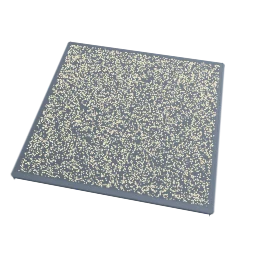
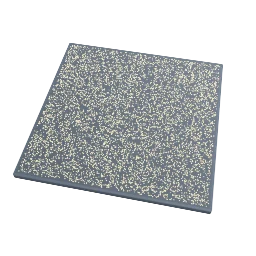
Live r8: amber beads in Sound in a box (they read on the light stage), and thumbnails
Claude-Session: https://claude.ai/code/session_01V3mijwrtZccrbj1ARTLDah

Changed region(s): [[0.0312, 0.1562, 0.9062, 0.8438]]

diff --git a/src/packs/chladni-3d.js b/src/packs/chladni-3d.js
@@ -316,7 +316,11 @@ export class Beads {
 
 const HALF = 0.8; // the cell's half-width in recipe units
 const LIFT = HALF + 0.04; // the beads' offsets reach this far
-const RING_SECS = 7; // a tap rings the transducer this long
+const RING_SECS = 7;
+// Dyed beads (labs often use colored or fluorescent ones), amber so they
+// read on the light stage and the dark one alike.
+const BEAD_A = "#c8701f";
+const BEAD_B = "#eba443"; // a tap rings the transducer this long
 const STIR_SECS = 1.0; // and first swirls a settled cell this long
 
 const CELL = { beads: null, cols: 1, rows: 1, home: null, tone: null, img: null, version: 0, last: null, taps: 0, ringUntil: 0, stirUntil: 0, amp: 0, sorted: -1, unsorted: false, p: 0, frames: 0 }; // prettier-ignore
@@ -345,7 +349,7 @@ const cellScreen = {
       CELL.img = g.createImageData(cols * 2, rows);
       const px = CELL.img.data;
       for (let i = 0; i < beads.n; i++) {
-        const c = mix("#f4ead8", "#ffffff", tone[i]).map((v) => Math.round(v * 255));
+        const c = mix(BEAD_A, BEAD_B, tone[i]).map((v) => Math.round(v * 255));
         const o = (Math.floor(i / cols) * cols * 2 + (i % cols)) * 4;
         px[o] = c[0];
         px[o + 1] = c[1];
@@ -506,7 +510,7 @@ export const CHLADNI_CELL = {
     for (let i = 0; i < n; i++) {
       for (let a = 0; a < 3; a++) home[i * 3 + a] = (k.rand() - 0.5) * 0.04;
       tone[i] = k.rand();
-      items.push({ p: [home[i * 3], home[i * 3 + 1], home[i * 3 + 2]], color: mix("#f4ead8", "#ffffff", tone[i]), size: 0.42 + 0.22 * tone[i], opacity: 1, kind: "relief", params: [((i % cols) + 0.5) / cols, (Math.floor(i / cols) + 0.5) / rows, 3, LIFT], pattern: false }); // prettier-ignore
+      items.push({ p: [home[i * 3], home[i * 3 + 1], home[i * 3 + 2]], color: mix(BEAD_A, BEAD_B, tone[i]), size: 0.42 + 0.22 * tone[i], opacity: 1, kind: "relief", params: [((i % cols) + 0.5) / cols, (Math.floor(i / cols) + 0.5) / rows, 3, LIFT], pattern: false }); // prettier-ignore
     }
     k.cloud({ share: n / k.count, size: 0.5, pattern: false, jitter: 0 }, (rand, i) => items[i] || null); // prettier-ignore
     Object.assign(CELL, { beads, cols, rows, home, tone, img: null, version: CELL.version + 1 });
